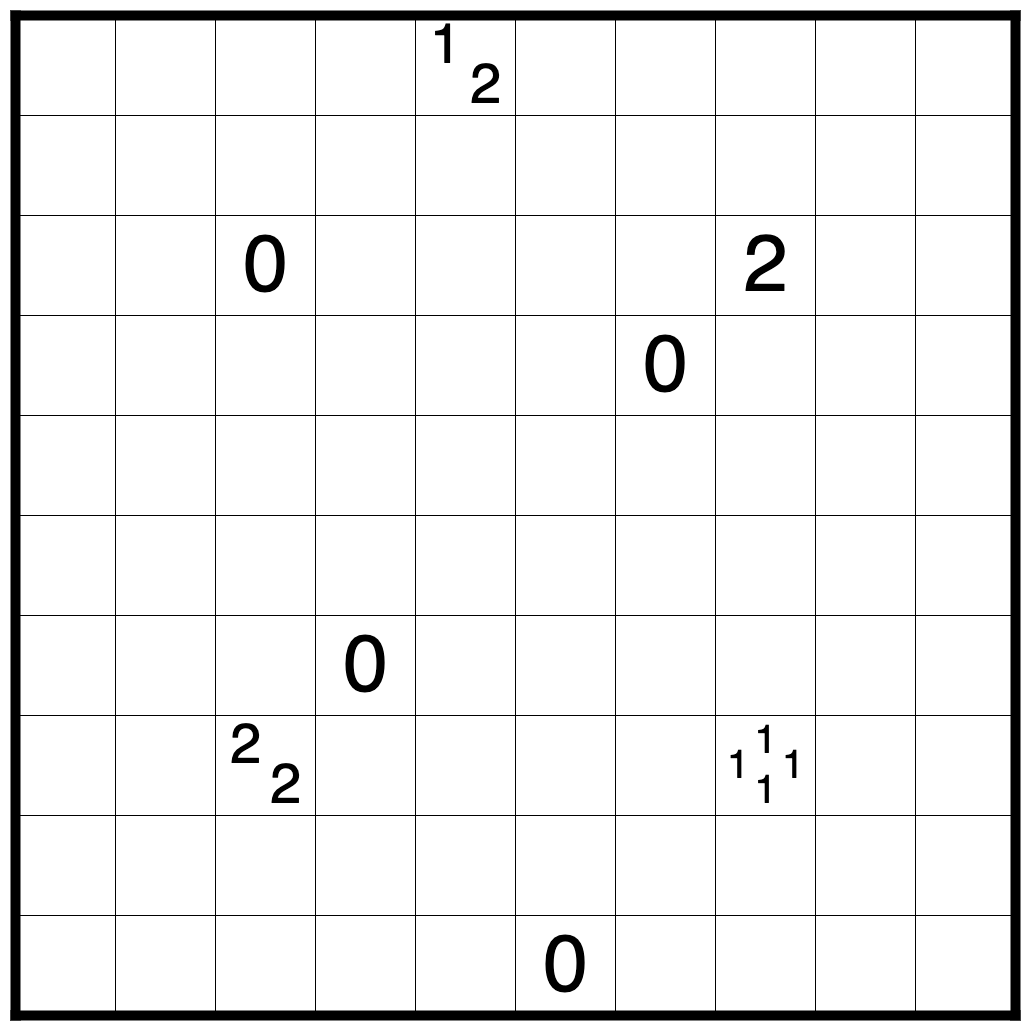
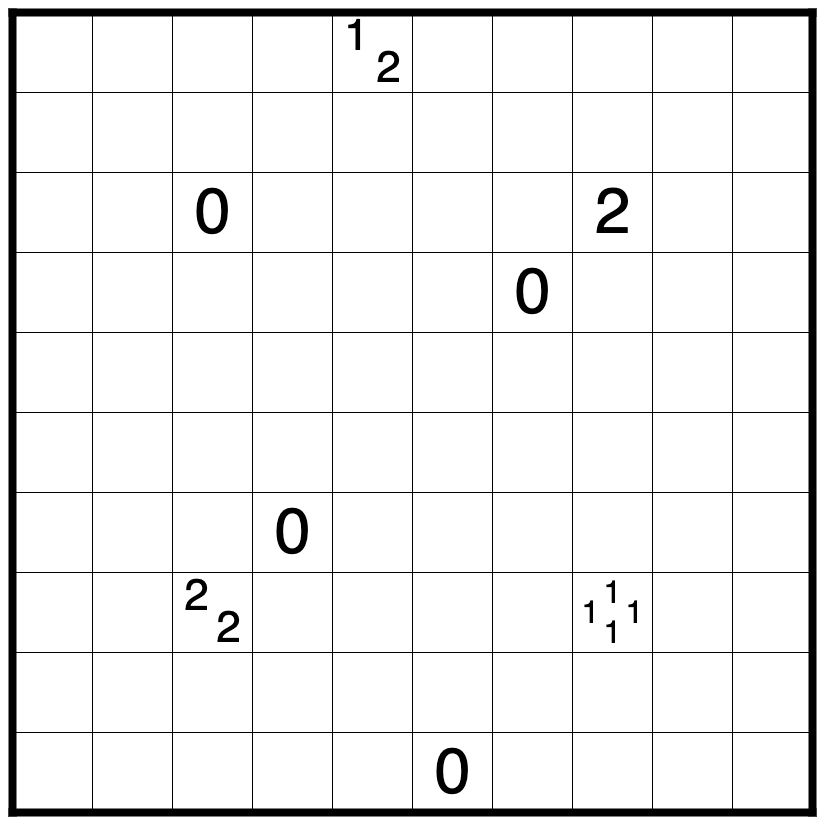
leave notes about site improvements

Changed region(s): [[0.4551, 0.0607, 0.4854, 0.1214], [0.7585, 0.7282, 0.7888, 0.7585], [0.6978, 0.7282, 0.7282, 0.7585]]

diff --git a/pages/index.js b/pages/index.js
@@ -19,7 +19,6 @@ export default function Home({ allPostsData }) {
       <Head>
         <title>{siteTitle}</title>
       </Head>
-      <section className={utilStyles.headingMd}></section>
       <section className={`${utilStyles.headingMd} ${utilStyles.padding1px}`}>
         <h2 className={utilStyles.headingLg}>Blog</h2>
         <ul className={utilStyles.list}>

diff --git a/README.md b/README.md
@@ -1,1 +1,6 @@
-This is a starter template for [Learn Next.js](https://nextjs.org/learn).
+To-do:
+
+- Homepage with most recent puzzles and links to common searches
+- Previous / next puzzles on each post
+- Descriptors for each source tag
+- Higher quality images for first 100 puzzles, ideal pzprxs size is 80